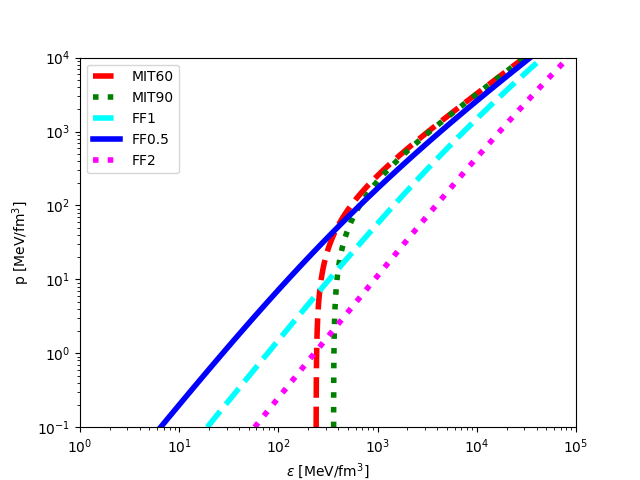
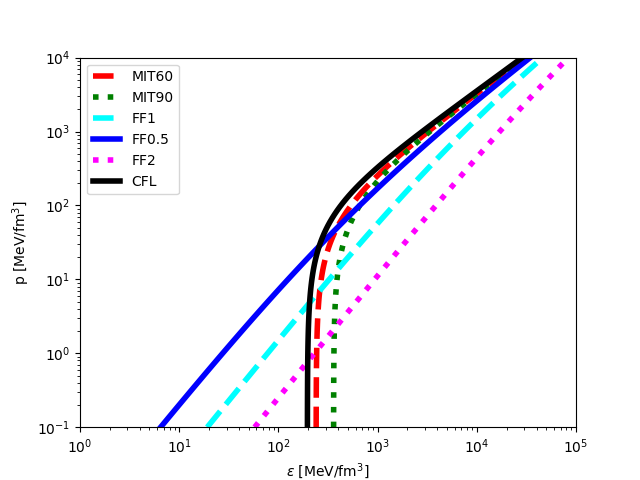
Adding CFL EoS.

diff --git a/plot_eos.py b/plot_eos.py
@@ -1,6 +1,7 @@
 from neutron_stars_computer.equationsofstate.eos import EquationOfState
 from neutron_stars_computer.equationsofstate.interpolate import RIPEOS
 from neutron_stars_computer.equationsofstate.massless_mit_bm import MasslessMITBM
+from neutron_stars_computer.equationsofstate.cfl import CFL
 
 import numpy as np
 import pandas as pd
@@ -10,10 +11,11 @@ def main() -> None:
 	EOSs: list[EquationOfState] = [MasslessMITBM(60), MasslessMITBM(90), 
 	                                RIPEOS("./neutron_stars_computer/equationsofstate/tabulated_eos/DM_EOS/f_dm_m1_y0.csv"),
 	                                RIPEOS("./neutron_stars_computer/equationsofstate/tabulated_eos/DM_EOS/f_dm_m0.5_y0.csv"),
-	                                RIPEOS("./neutron_stars_computer/equationsofstate/tabulated_eos/DM_EOS/f_dm_m2_y0.csv")]
-	labels: list[str] = ['MIT60', 'MIT90', 'FF1', 'FF0.5', 'FF2']
-	linestyles: list[str] = ['--', ':', '--', '-', ':']
-	colors: list[str] = ['red', 'green', 'cyan', 'blue', 'magenta']
+	                                RIPEOS("./neutron_stars_computer/equationsofstate/tabulated_eos/DM_EOS/f_dm_m2_y0.csv"),
+	                                CFL(70)]
+	labels: list[str] = ['MIT60', 'MIT90', 'FF1', 'FF0.5', 'FF2', 'CFL']
+	linestyles: list[str] = ['--', ':', '--', '-', ':', '-']
+	colors: list[str] = ['red', 'green', 'cyan', 'blue', 'magenta', 'black']
 
 	pressures = np.geomspace(1e-1, 1e4, 100)
 

diff --git a/neutron_stars_computer/equationsofstate/cfl.py b/neutron_stars_computer/equationsofstate/cfl.py
@@ -1,0 +1,18 @@
+from dataclasses import dataclass
+from math import pi, sqrt
+import neutron_stars_computer.star.conversionfactors as cf
+
+from .eos import EquationOfState
+
+
+@dataclass(slots=True, frozen=True)
+class CFL(EquationOfState):
+    BAG_PRESS: float = 57
+    delta: float = 160
+    ms: float = 150 
+
+    def energy_density_from(self, pressure: float) -> float:
+        alpha = 2 * self.delta**2 / 3 - self.ms**2 / 6
+        mi_square = sqrt( 9 * alpha**2 + 4 * pi**2 * ((self.BAG_PRESS + pressure)*cf.MEV_FM3_TO_MEV4) / 3 ) - 3 * alpha
+
+        return 3 * pressure + 4 * self.BAG_PRESS - (9 * alpha * mi_square / pi**2) / cf.MEV_FM3_TO_MEV4
